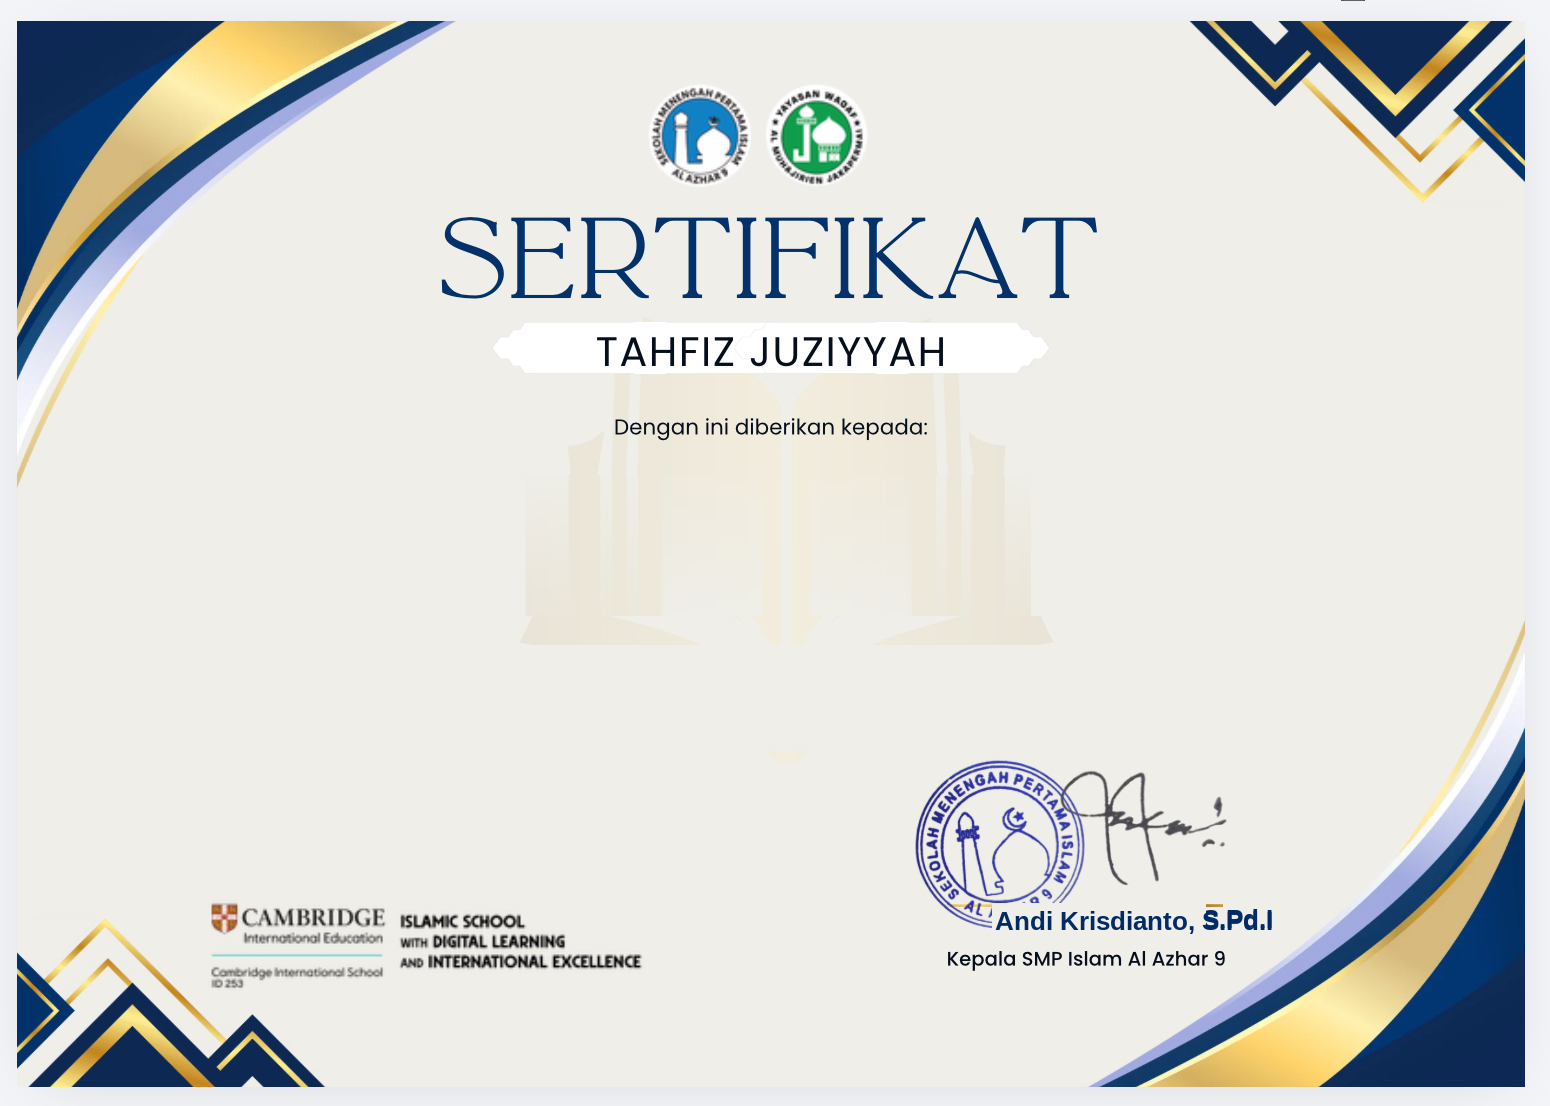
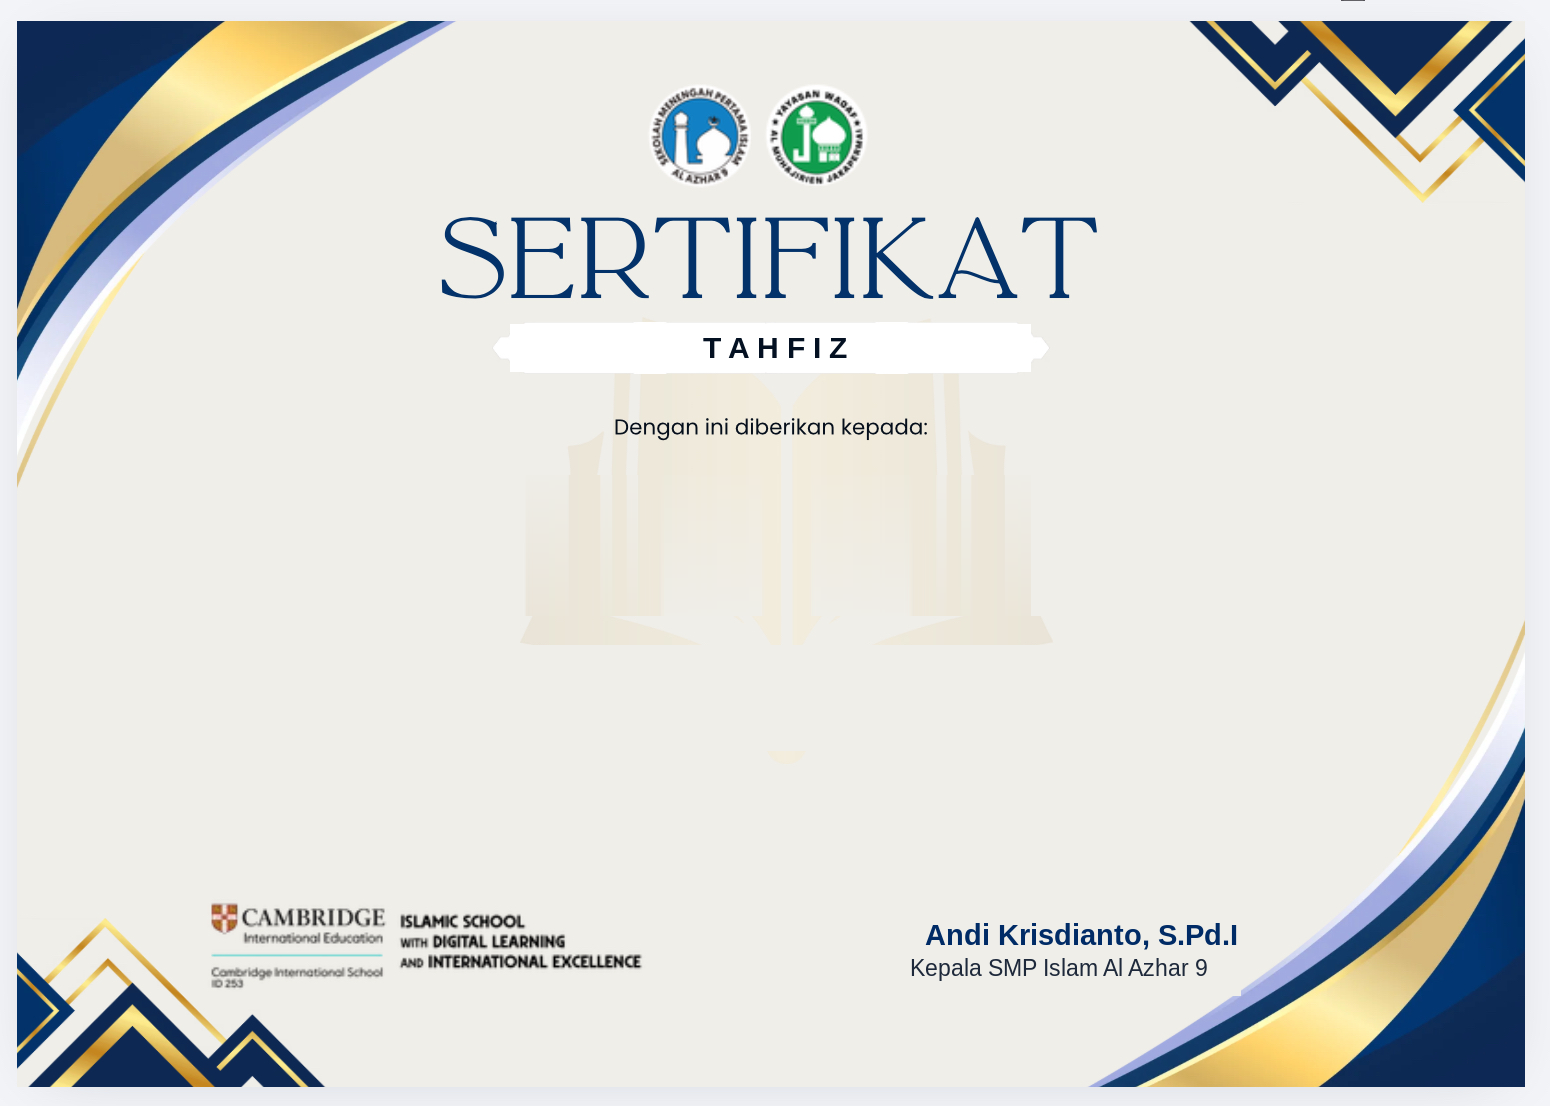
feat: add custom juz label to certificate generation
Allow users to specify a custom label for the juz during PDF certificate generation to support flexible naming conventions.

Changed region(s): [[0.5884, 0.6763, 0.8361, 0.8915], [0.4026, 0.3074, 0.6194, 0.3382]]

diff --git a/src/components/SertifikatTahfizModal.tsx b/src/components/SertifikatTahfizModal.tsx
@@ -97,6 +97,14 @@ export const SertifikatTahfizModal: React.FC<SertifikatTahfizModalProps> = ({
     return completedJuzList[0] || 30;
   });
 
+  const [customJuzText, setCustomJuzText] = useState<string>(() => `Juz ${defaultJuz || completedJuzList[0] || 30}`);
+  const testedJuzLabel = customJuzText.trim() ? customJuzText : `Juz ${selectedJuz}`;
+
+  const handleJuzChange = (jNum: number) => {
+    setSelectedJuz(jNum);
+    setCustomJuzText(`Juz ${jNum}`);
+  };
+
   // Pasang class di body agar print CSS A4 Landscape aktif
   React.useEffect(() => {
     document.body.classList.add('certificate-modal-open');
@@ -140,7 +148,7 @@ export const SertifikatTahfizModal: React.FC<SertifikatTahfizModalProps> = ({
   const handleDownloadPDF = async () => {
     try {
       setIsGeneratingPdf(true);
-      await generateCertificatePDF(student, certData, settings, teacherName);
+      await generateCertificatePDF(student, certData, settings, teacherName, testedJuzLabel);
     } catch (err) {
       console.error('Gagal generate PDF sertifikat:', err);
     } finally {
@@ -227,7 +235,7 @@ export const SertifikatTahfizModal: React.FC<SertifikatTahfizModalProps> = ({
               <span className="text-slate-400 font-semibold text-[11px]">Pilih Juz:</span>
               <select
                 value={selectedJuz}
-                onChange={(e) => setSelectedJuz(Number(e.target.value))}
+                onChange={(e) => handleJuzChange(Number(e.target.value))}
                 className="bg-slate-900 text-amber-300 font-bold px-2 py-1 rounded-lg border border-slate-600 focus:outline-none focus:border-amber-400 cursor-pointer text-xs"
               >
                 {Array.from({ length: 30 }, (_, idx) => 30 - idx).map((jNum) => {
@@ -242,13 +250,26 @@ export const SertifikatTahfizModal: React.FC<SertifikatTahfizModalProps> = ({
               </select>
             </div>
 
+            {/* Editable Juz yang Diujikan */}
+            <div className="flex items-center gap-1.5 bg-slate-800 px-2.5 py-1 rounded-xl border border-slate-700 text-xs">
+              <span className="text-slate-400 font-semibold text-[11px]">Juz Diujikan:</span>
+              <input
+                type="text"
+                value={customJuzText}
+                onChange={(e) => setCustomJuzText(e.target.value)}
+                placeholder={`Juz ${selectedJuz}`}
+                className="w-24 sm:w-28 bg-slate-900 text-amber-300 font-bold px-2 py-1 rounded-lg border border-slate-600 focus:outline-none focus:border-amber-400 text-xs"
+                title="Keterangan Juz yang diujikan (otomatis terisi dari pilihan Juz, dapat disesuaikan)"
+              />
+            </div>
+
             {/* Quick Juz Tabs */}
             <div className="hidden lg:inline-flex items-center bg-slate-800 p-0.5 rounded-xl border border-slate-700 text-xs">
               {completedJuzList.slice(0, 4).map((j) => (
                 <button
                   key={j}
                   type="button"
-                  onClick={() => setSelectedJuz(j)}
+                  onClick={() => handleJuzChange(j)}
                   className={`px-2.5 py-1 rounded-lg font-bold transition-all cursor-pointer ${
                     selectedJuz === j
                       ? 'bg-amber-500 text-slate-950 shadow-xs'
@@ -303,11 +324,11 @@ export const SertifikatTahfizModal: React.FC<SertifikatTahfizModalProps> = ({
               aspectRatio: '1550 / 1106',
             }}
           >
-            {/* Background Template Resmi dengan Bingkai Emas & Biru, Logo Al-Azhar & YPIA, Watermark Qur'an, Badge Cambridge, Stempel & Tanda Tangan Kepala Sekolah Andi Krisdianto, S.Pd.I */}
+            {/* Background Template Resmi dengan Bingkai Emas & Biru, Logo Al-Azhar & YPIA, Watermark Qur'an, Badge Cambridge, dan Kepala Sekolah Andi Krisdianto, S.Pd.I */}
             <img
               id="certificate-official-bg"
               src="/assets/cert_tahfiz_official.png"
-              alt="Sertifikat Tahfiz Juziyyah SMP Islam Al Azhar 9"
+              alt="Sertifikat Tahfiz SMP Islam Al Azhar 9"
               className="absolute inset-0 w-full h-full object-fill pointer-events-none"
             />
 
@@ -329,13 +350,13 @@ export const SertifikatTahfizModal: React.FC<SertifikatTahfizModalProps> = ({
                 </h2>
               </div>
 
-              {/* Keterangan Pelaksanaan Tasmi' Bil Ghaib Sekali Duduk */}
+              {/* Keterangan Pelaksanaan Tes Hafalan Al-Qur'an */}
               <div 
                 className="absolute left-0 right-0 px-8 text-center flex flex-col items-center justify-center -translate-y-1/2 space-y-1 sm:space-y-1.5 print:space-y-1"
                 style={{ top: '62.8%' }}
               >
                 <p className="text-slate-800 font-sans text-xs sm:text-sm md:text-[15px] lg:text-[16px] print:text-[13pt] font-bold leading-tight max-w-2xl mx-auto">
-                  Selamat telah melaksanakan Tasmi' Al-Qur'an <span className="font-extrabold text-slate-900">Juz {selectedJuz}</span> dalam sekali duduk
+                  Selamat telah melaksanakan Tes Hafalan Al-Qur'an <span className="font-extrabold text-slate-900">{testedJuzLabel}</span>
                 </p>
                 <p className="text-slate-600 font-sans text-[10px] sm:text-xs md:text-[12.5px] lg:text-[13.5px] print:text-[10pt] font-medium leading-tight max-w-2xl mx-auto">
                   Semoga penghargaan ini menjadi motivasi untuk menambah dan memelihara hafalan dengan baik.

diff --git a/src/utils/certificatePdfGenerator.ts b/src/utils/certificatePdfGenerator.ts
@@ -227,7 +227,8 @@ export async function generateCertificatePDF(
   student: Student,
   certData: JuzCertificateData,
   settings: SchoolSettings,
-  _teacherName?: string
+  _teacherName?: string,
+  customJuzLabel?: string
 ) {
   // A4 Landscape: 297mm x 210mm
   const doc = new jsPDF({
@@ -293,16 +294,18 @@ export async function generateCertificatePDF(
     ctx.fillText(student.name, centerX, 545);
     ctx.restore();
 
-    // 3. Render Pernyataan Tasmi' Bil Ghaib
+    // 3. Render Pernyataan Tes Hafalan Al-Qur'an
     ctx.save();
     ctx.textAlign = 'center';
     ctx.textBaseline = 'middle';
 
-    // Baris 1: Selamat telah melaksanakan Tasmi' Al-Qur'an Juz X dalam sekali duduk
+    const testedJuzText = customJuzLabel?.trim() || `Juz ${certData.juzNumber}`;
+
+    // Baris 1: Selamat telah melaksanakan Tes Hafalan Al-Qur'an Juz X
     ctx.font = "bold 23px 'Plus Jakarta Sans', 'Arial', sans-serif";
     ctx.fillStyle = '#1e293b';
     ctx.fillText(
-      `Selamat telah melaksanakan Tasmi' Al-Qur'an Juz ${certData.juzNumber} dalam sekali duduk`,
+      `Selamat telah melaksanakan Tes Hafalan Al-Qur'an ${testedJuzText}`,
       centerX,
       675
     );
@@ -334,6 +337,8 @@ export async function generateCertificatePDF(
       doc.rect(0, 0, pageWidth, pageHeight, 'F');
     }
 
+    const testedJuzText = customJuzLabel?.trim() || `Juz ${certData.juzNumber}`;
+
     doc.setFont('helvetica', 'bold');
     doc.setFontSize(22);
     doc.setTextColor(197, 155, 39); // Emas #C59B27
@@ -343,7 +348,7 @@ export async function generateCertificatePDF(
     doc.setFontSize(10);
     doc.setTextColor(30, 41, 59);
     doc.text(
-      `Selamat telah melaksanakan Tasmi' Al-Qur'an Juz ${certData.juzNumber} dalam sekali duduk`,
+      `Selamat telah melaksanakan Tes Hafalan Al-Qur'an ${testedJuzText}`,
       pageWidth / 2,
       128,
       { align: 'center' }
